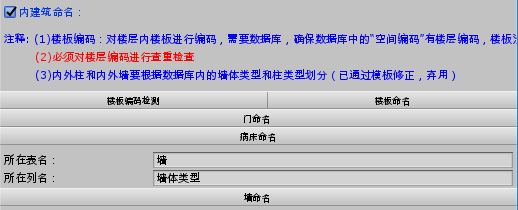
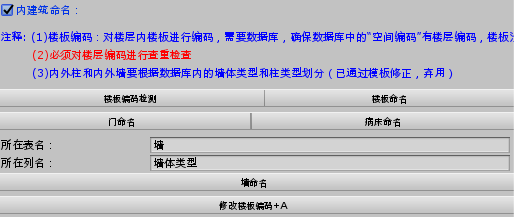
first

Changed region(s): [[0.0, 0.0, 1.0, 1.0], [0.0, 0.0, 0.1556, 0.0857]]

diff --git a/preview/模型处理Editor说明文档.html b/preview/模型处理Editor说明文档.html
@@ -145,14 +145,8 @@
 </li>
 </ul>
 <h2 id="-">外建筑划分</h2>
-<p>主要分四个部分：</p>
-<ul>
-<li><strong>调整外建筑材质</strong></li>
-<li><strong>3dMax建筑划分</strong></li>
-<li><strong>设置BoxLayer</strong></li>
-<li><strong>设置BoxMaterial</strong></li>
-</ul>
 <p><img src="E:/7_GitHub/Markdown_Files/Image/外建筑划分.png" alt="外建筑划分">   </p>
+<p>主要分四个部分：</p>
 <ul>
 <li><p><strong>调整外建筑材质</strong></p>
 <ul>
@@ -236,23 +230,43 @@ st-&gt;op1-&gt;op2-&gt;op3-&gt;op4
 </li>
 </ul>
 <h2 id="-">内建筑划分</h2>
+<p> <img src="E:/7_GitHub/Markdown_Files/Image/内建筑划分.png" alt="内建筑划分">   </p>
+<ul>
+<li>划分后的层级为 ：</li>
+</ul>
+<p><img src="E:/7_GitHub/Markdown_Files/Image/内建筑划分后.png" alt="内建筑划分后">   </p>
 <p><strong>选择：</strong></p>
 <ul>
 <li>模型根节点</li>
-<li><p>数据库文件</p>
-<p><img src="E:/7_GitHub/Markdown_Files/Image/内建筑划分.png" alt="内建筑划分">   </p>
-</li>
+<li>数据库文件</li>
 </ul>
 <p><strong>操作：</strong></p>
 <ul>
-<li><strong>建筑类型划分（整体）</strong> </li>
-</ul>
+<li><p><strong>建筑类型划分（整体）</strong> </p>
 <ul>
-<li><strong>建筑楼层划分</strong></li>
+<li>根据数据库中的表，将模型按不同的类型进行划分开，</li>
+<li>一般分为：<strong>墙（Wall）</strong>、<strong>楼板(Floor)</strong>、<strong>结构柱（StructureColumn）、窗(Window)</strong>、<strong>门(door)、幕墙嵌板(CurtainWallJamb)</strong>、<strong>幕墙竖梃(CurtainWallPanel)，栏杆扶手(Railing)</strong>，<strong>楼梯(stairs)</strong>、<strong>天花板(celling)、屋顶(roof)</strong> 等，确保数据库中包含所有模型的表；</li>
+<li>有些为分配的，但场景中有重复的，例如楼梯的<strong>整体平台和整体梯段可以删除</strong>；</li>
+<li>建筑划分完成后，需要单独选择一块每一层的楼板作为划分<strong>楼层标高的标识</strong>；创建一个空物体，将所有的楼板放置到空物体下</li>
+<li>获得所有楼板标识后，可以还原整体建筑划分；</li>
 </ul>
+</li>
+<li><p><strong>建筑楼层划分</strong></p>
 <ul>
-<li><strong>建筑类型划分（楼层）</strong> </li>
+<li>划分楼层，需要根据楼板标识进行划分，选择划分楼板的节点；</li>
+<li>指定当前划分建筑的编码</li>
+<li>指定当前建筑地下层数，如果中间有夹层部分，需要手动修改楼层编码</li>
+<li>如果是多建筑的话，需要根据数据库进行划分</li>
 </ul>
+</li>
+<li><p><strong>建筑类型划分（楼层）</strong> </p>
+<ul>
+<li>划分好楼层后，既可划分楼层内的类型；</li>
+</ul>
+</li>
+</ul>
+<p><strong>注意：</strong> <font color = "#ff0000">在编码之前应该保存一份位编码的内建筑，以便后期有修改；
+未编码内建筑可以标注为UnEncode,例如TCENH-K03-AR-UnEncode</font></p>
 <h2 id="-">内建筑命名</h2>
 <p><strong>选择：</strong></p>
 <ul>
@@ -305,12 +319,75 @@ st-&gt;op1-&gt;op2-&gt;op3-&gt;op4
 </li>
 </ul>
 </li>
+<li><p><strong>修改楼板编码</strong>
+如果楼板编码中缺少编码A,可以使用此功能快速添加A</p>
+</li>
 </ul>
 <h2 id="-">内建筑替换材质</h2>
 <p> <img src="E:/7_GitHub/Markdown_Files/Image/内建筑材质.png" alt="内建筑材质">  </p>
+<p><strong>选择：</strong></p>
+<ul>
+<li>模型根节点</li>
+</ul>
+<p><strong>操作：</strong></p>
+<p>建筑材质的默认路径为：“.../Base/Shared/Materials/BuildingMaterial”,可以不用选择</p>
+<p><img src="E:/7_GitHub/Markdown_Files/Image/建筑材质.png" alt="建筑材质">  </p>
+<p>默认全部替换，若只修改某个节点下的材质，可以使用<strong>杂类-&gt;替换材质</strong></p>
 <h2 id="-layer-tag">内建筑设置Layer/Tag</h2>
+<p><img src="E:/7_GitHub/Markdown_Files/Image/内建筑LayerTag.png" alt="内建筑LayerTag">  </p>
+<p><strong>选择：</strong></p>
+<ul>
+<li>模型根节点</li>
+</ul>
+<p><strong>操作：</strong></p>
+<p>FloorTag默认为：Building_Floors
+Layer默认为：buildingLevels</p>
+<p>分别点击设置楼板Tag,设置内建筑Layer并关闭阴影</p>
+<p><strong>注意：</strong> <font color = "#ff0000">内建筑处理完成后，可以标注为Encode,例如TCENH-K03-AR-Encode</font></p>
 <h2 id="-">内建筑导入外建筑打包</h2>
-<h2 id="-">房间与楼板的映射关系</h2>
+<p><img src="E:/7_GitHub/Markdown_Files/Image/内建筑导入Max层级.png" alt="内建筑导入Max层级">  </p>
+<p><strong>选择：</strong></p>
+<ul>
+<li>模型根节点</li>
+</ul>
+<p><strong>操作：</strong></p>
+<ul>
+<li><p>内建筑的的层级结构应该调整为正确的编码：</p>
+<p>  <img src="E:/7_GitHub/Markdown_Files/Image/正确层级.png" alt="正确层级">  </p>
+</li>
+<li><p>内建筑的Level层级应与外建筑一致</p>
+</li>
+</ul>
+<h2 id="-">墙与楼板的映射关系</h2>
+<p>用于建筑装修，需要知道楼板和墙面对应关系</p>
+<p><img src="E:/7_GitHub/Markdown_Files/Image/墙和楼板的对应关系.png" alt="墙和楼板的对应关系">  </p>
+<p><strong>选择：</strong></p>
+<ul>
+<li>模型根节点</li>
+<li>选择数据库</li>
+</ul>
+<p><strong>操作：</strong></p>
+<h2 id="-">楼板新旧模型的映射关系</h2>
+<p>楼板因为编码的缘故造成以前的编码出现问题，可以使用射线映射的方式，获得新旧楼板的对应关系</p>
+<p><img src="E:/7_GitHub/Markdown_Files/Image/楼板新旧模型的映射关系.png" alt="楼板新旧模型的映射关系">  </p>
+<p><strong>选择：</strong></p>
+<ul>
+<li>模型根节点</li>
+<li>选择数据库</li>
+</ul>
+<p><strong>操作：</strong></p>
+<ul>
+<li><p>选择旧模型的根节点作为模型根节点</p>
+</li>
+<li><p>新旧模型上下位置错开一定距离，用于射线检测</p>
+</li>
+<li><p>创建楼板映射关系后，找到对应关系的楼板会变红</p>
+</li>
+<li><p>数据库有两个字段：oldFloorCode,newFloorCode</p>
+</li>
+<li><p>保存数据库即可</p>
+</li>
+</ul>
 <pre><code>
 </code></pre><h1 id="-">模型编辑器-管道</h1>
 <h2 id="-">管道替换</h2>

diff --git a/模型处理Editor说明文档.md b/模型处理Editor说明文档.md
@@ -79,14 +79,9 @@
 
 ## 外建筑划分
 
-主要分四个部分：
-
-- **调整外建筑材质**
-- **3dMax建筑划分**
-- **设置BoxLayer**
-- **设置BoxMaterial**
-  
 ![外建筑划分](E:/7_GitHub/Markdown_Files/Image/外建筑划分.png)   
+
+主要分四个部分：
 
 - **调整外建筑材质**
   
@@ -176,24 +171,42 @@ st->op1->op2->op3->op4
 
 ## 内建筑划分
 
+ ![内建筑划分](E:/7_GitHub/Markdown_Files/Image/内建筑划分.png)   
+
+ - 划分后的层级为 ：
+   
+![内建筑划分后](E:/7_GitHub/Markdown_Files/Image/内建筑划分后.png)   
+
+
 **选择：**
 
 - 模型根节点
 - 数据库文件
 
- ![内建筑划分](E:/7_GitHub/Markdown_Files/Image/内建筑划分.png)   
-
 **操作：**
 
 - **建筑类型划分（整体）** 
   
-   
-  
+    - 根据数据库中的表，将模型按不同的类型进行划分开，
+    - 一般分为：**墙（Wall）**、**楼板(Floor)**、**结构柱（StructureColumn）、窗(Window)**、**门(door)、幕墙嵌板(CurtainWallJamb)**、**幕墙竖梃(CurtainWallPanel)，栏杆扶手(Railing)**，**楼梯(stairs)**、**天花板(celling)、屋顶(roof)** 等，确保数据库中包含所有模型的表；
+    - 有些为分配的，但场景中有重复的，例如楼梯的**整体平台和整体梯段可以删除**；
+    - 建筑划分完成后，需要单独选择一块每一层的楼板作为划分**楼层标高的标识**；创建一个空物体，将所有的楼板放置到空物体下
+    - 获得所有楼板标识后，可以还原整体建筑划分；
+
 - **建筑楼层划分**
 
-
+    - 划分楼层，需要根据楼板标识进行划分，选择划分楼板的节点；
+    - 指定当前划分建筑的编码
+    - 指定当前建筑地下层数，如果中间有夹层部分，需要手动修改楼层编码
+    - 如果是多建筑的话，需要根据数据库进行划分
 
 - **建筑类型划分（楼层）** 
+
+    - 划分好楼层后，既可划分楼层内的类型；
+
+**注意：** <font color = "#ff0000">在编码之前应该保存一份位编码的内建筑，以便后期有修改；
+未编码内建筑可以标注为UnEncode,例如TCENH-K03-AR-UnEncode</font>
+
 
 
 ## 内建筑命名
@@ -243,41 +256,101 @@ st->op1->op2->op3->op4
     - 所在表名：你需要处理的表名，例如墙，在数据库中为墙，结构柱在数据库中为结构柱
     - 所在表列：即区分内外的参数所在表列
 
+- **修改楼板编码**
+  如果楼板编码中缺少编码A,可以使用此功能快速添加A
+
 ## 内建筑替换材质
 
-
  ![内建筑材质](E:/7_GitHub/Markdown_Files/Image/内建筑材质.png)  
+
+**选择：**
+
+- 模型根节点
+
+**操作：**
+
+建筑材质的默认路径为：“.../Base/Shared/Materials/BuildingMaterial”,可以不用选择
+
+![建筑材质](E:/7_GitHub/Markdown_Files/Image/建筑材质.png)  
+
+默认全部替换，若只修改某个节点下的材质，可以使用**杂类->替换材质**
 
 
 ## 内建筑设置Layer/Tag
 
-
 ![内建筑LayerTag](E:/7_GitHub/Markdown_Files/Image/内建筑LayerTag.png)  
+
+**选择：**
+
+- 模型根节点
+
+**操作：**
+
+FloorTag默认为：Building_Floors
+Layer默认为：buildingLevels
+
+分别点击设置楼板Tag,设置内建筑Layer并关闭阴影
+
+
+**注意：** <font color = "#ff0000">内建筑处理完成后，可以标注为Encode,例如TCENH-K03-AR-Encode</font>
 
 
 
 ## 内建筑导入外建筑打包
 
-
-
 ![内建筑导入Max层级](E:/7_GitHub/Markdown_Files/Image/内建筑导入Max层级.png)  
 
+**选择：**
 
+- 模型根节点
 
+**操作：**
+
+- 内建筑的的层级结构应该调整为正确的编码：
+
+    ![正确层级](E:/7_GitHub/Markdown_Files/Image/正确层级.png)  
+
+- 内建筑的Level层级应与外建筑一致
+  
 
 ## 墙与楼板的映射关系
 
-
+用于建筑装修，需要知道楼板和墙面对应关系
 
 ![墙和楼板的对应关系](E:/7_GitHub/Markdown_Files/Image/墙和楼板的对应关系.png)  
+
+**选择：**
+
+- 模型根节点
+- 选择数据库
+
+**操作：**
+
+
 
 
 ## 楼板新旧模型的映射关系
 
+楼板因为编码的缘故造成以前的编码出现问题，可以使用射线映射的方式，获得新旧楼板的对应关系
 
 ![楼板新旧模型的映射关系](E:/7_GitHub/Markdown_Files/Image/楼板新旧模型的映射关系.png)  
 
+**选择：**
 
+- 模型根节点
+- 选择数据库
+
+**操作：**
+
+- 选择旧模型的根节点作为模型根节点
+
+- 新旧模型上下位置错开一定距离，用于射线检测
+
+- 创建楼板映射关系后，找到对应关系的楼板会变红
+
+- 数据库有两个字段：oldFloorCode,newFloorCode
+  
+- 保存数据库即可
 
 ```
 
